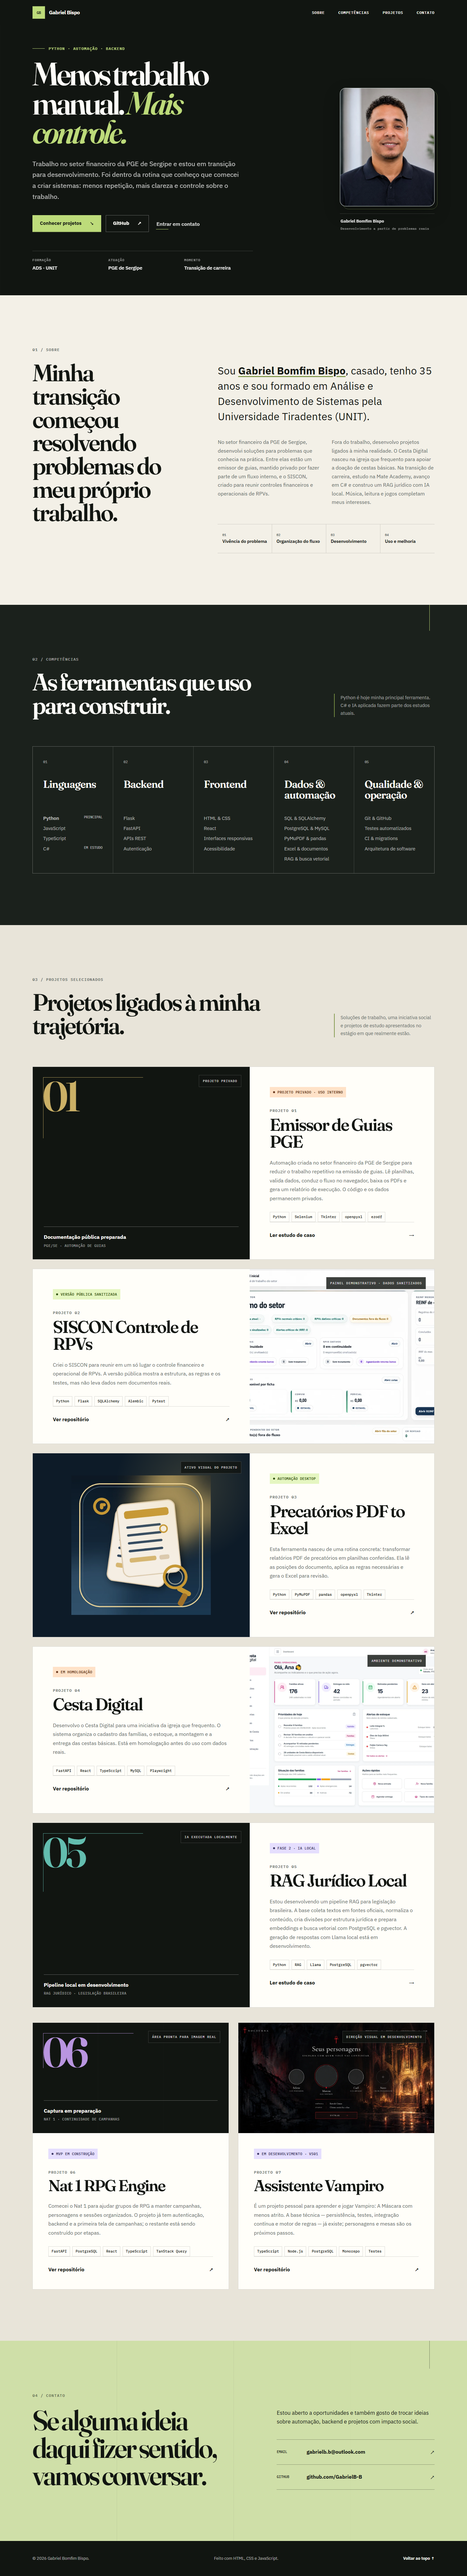
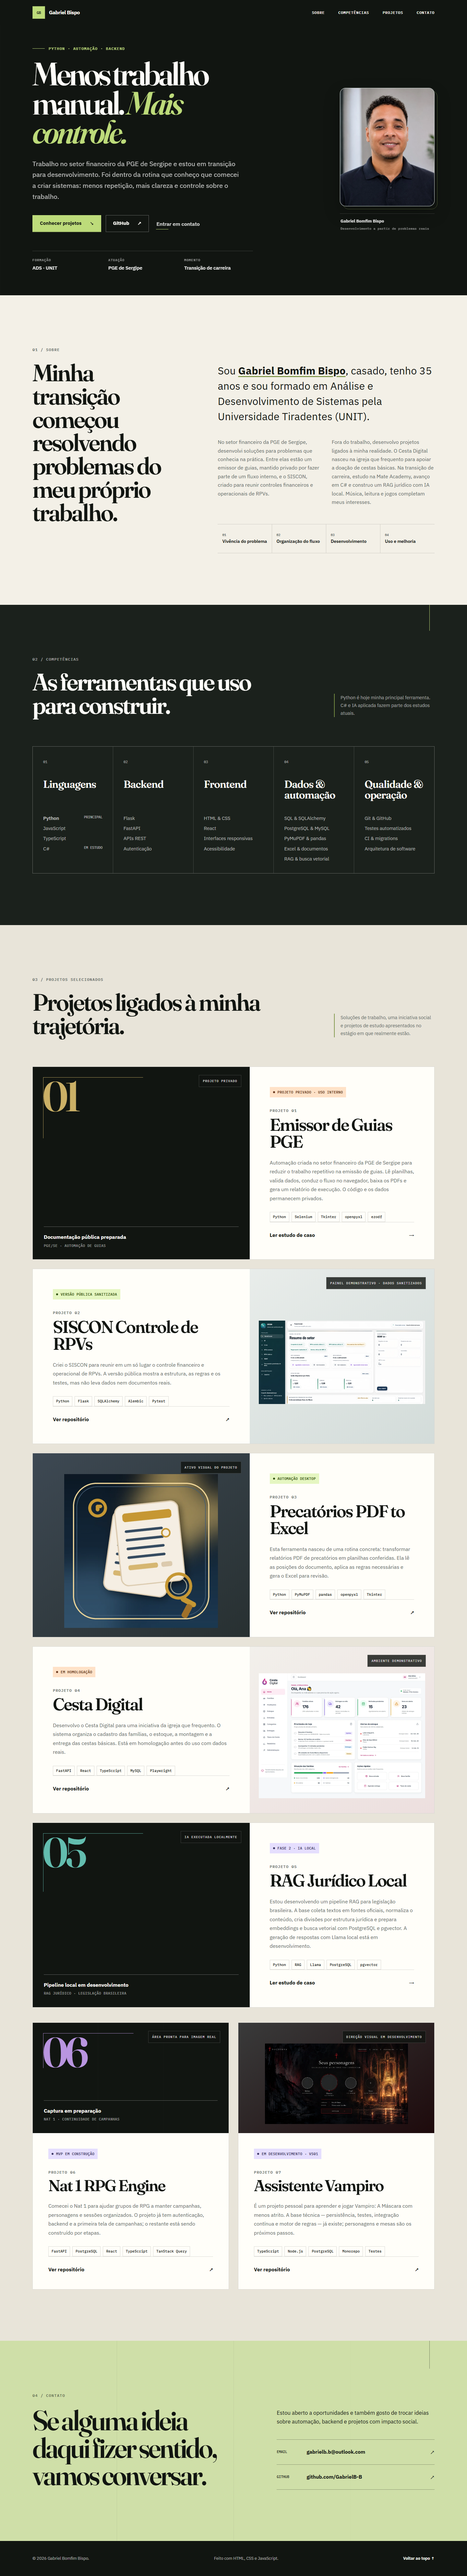
fix: preserve full project screenshots

diff --git a/index.html b/index.html
@@ -251,7 +251,7 @@
                     </article>
 
                     <article class="project-card project-card-reverse" style="--project-accent: #bddb7a" data-reveal>
-                        <div class="project-media project-media-image" role="img" aria-label="Painel inicial sanitizado do SISCON com indicadores financeiros e operacionais" style="--project-image: url('assets/projects/siscon.webp')">
+                        <div class="project-media project-media-image" role="img" aria-label="Painel inicial sanitizado do SISCON com indicadores financeiros e operacionais" style="--project-image: url('assets/projects/siscon.webp'); --media-surface: #e3e8e5; --media-tint: rgba(20, 76, 80, 0.08)">
                             <div class="media-overlay"><span>Painel demonstrativo · dados sanitizados</span></div>
                         </div>
                         <div class="project-body">
@@ -278,7 +278,7 @@
                     </article>
 
                     <article class="project-card" style="--project-accent: #80d8ff" data-reveal>
-                        <div class="project-media project-media-image project-media-contain" role="img" aria-label="Identidade visual do aplicativo Precatórios PDF to Excel" style="--project-image: url('assets/projects/precatorios-pdf-excel.webp')">
+                        <div class="project-media project-media-image" role="img" aria-label="Identidade visual do aplicativo Precatórios PDF to Excel" style="--project-image: url('assets/projects/precatorios-pdf-excel.webp'); --media-surface: #0d1b28; --media-tint: rgba(231, 200, 115, 0.12)">
                             <div class="media-overlay"><span>Ativo visual do projeto</span></div>
                         </div>
                         <div class="project-body">
@@ -305,7 +305,7 @@
                     </article>
 
                     <article class="project-card project-card-reverse" style="--project-accent: #ffbf69" data-reveal>
-                        <div class="project-media project-media-image" role="img" aria-label="Painel demonstrativo do Cesta Digital com indicadores de famílias, entregas e estoque" style="--project-image: url('assets/projects/cesta-digital.webp')">
+                        <div class="project-media project-media-image" role="img" aria-label="Painel demonstrativo do Cesta Digital com indicadores de famílias, entregas e estoque" style="--project-image: url('assets/projects/cesta-digital.webp'); --media-surface: #efece6; --media-tint: rgba(203, 48, 120, 0.07)">
                             <div class="media-overlay"><span>Ambiente demonstrativo</span></div>
                         </div>
                         <div class="project-body">
@@ -399,7 +399,7 @@
                     </article>
 
                     <article class="project-card project-card-compact" style="--project-accent: #ff7b8f" data-reveal>
-                        <div class="project-media project-media-image" role="img" aria-label="Direção visual do seletor de personagens do Assistente Vampiro" style="--project-image: url('assets/projects/assistente-vampiro.webp')">
+                        <div class="project-media project-media-image" role="img" aria-label="Direção visual do seletor de personagens do Assistente Vampiro" style="--project-image: url('assets/projects/assistente-vampiro.webp'); --media-surface: #080909; --media-tint: rgba(174, 18, 32, 0.13)">
                             <div class="media-overlay"><span>Direção visual em desenvolvimento</span></div>
                         </div>
                         <div class="project-body">

diff --git a/style.css b/style.css
@@ -779,25 +779,23 @@ ol {
     isolation: isolate;
 }
 
+.project-media-image {
+    box-sizing: border-box;
+    padding: 64px 28px 28px;
+    background-color: var(--media-surface, var(--ink));
+    background-image:
+        var(--project-image),
+        linear-gradient(145deg, rgba(255, 255, 255, 0.2), var(--media-tint, rgba(255, 255, 255, 0.04)));
+    background-position: center, center;
+    background-repeat: no-repeat, no-repeat;
+    background-size: contain, cover;
+    background-origin: content-box, border-box;
+    background-clip: content-box, border-box;
+}
+
 .project-media-image::before,
 .project-media-image::after {
     display: none;
-}
-
-.project-media-image {
-    background-color: var(--ink);
-    background-image: var(--project-image);
-    background-position: center;
-    background-repeat: no-repeat;
-    background-size: cover;
-}
-
-.project-media-contain {
-    background-color: #0d1b28;
-    background-image:
-        radial-gradient(circle at 72% 18%, rgba(231, 200, 115, 0.18), transparent 34%),
-        var(--project-image);
-    background-size: cover, min(70%, 430px) auto;
 }
 
 .project-media::before,
@@ -1383,8 +1381,10 @@ ol {
     .project-list { gap: 18px; }
     .project-card:hover { transform: none; }
     .project-media { aspect-ratio: 4 / 3; }
-    .project-media-image { aspect-ratio: 16 / 10; }
-    .project-media-contain { background-size: cover, 64% auto; }
+    .project-media-image {
+        aspect-ratio: 16 / 10;
+        padding: 16px;
+    }
 
     .media-code {
         top: 20px;
